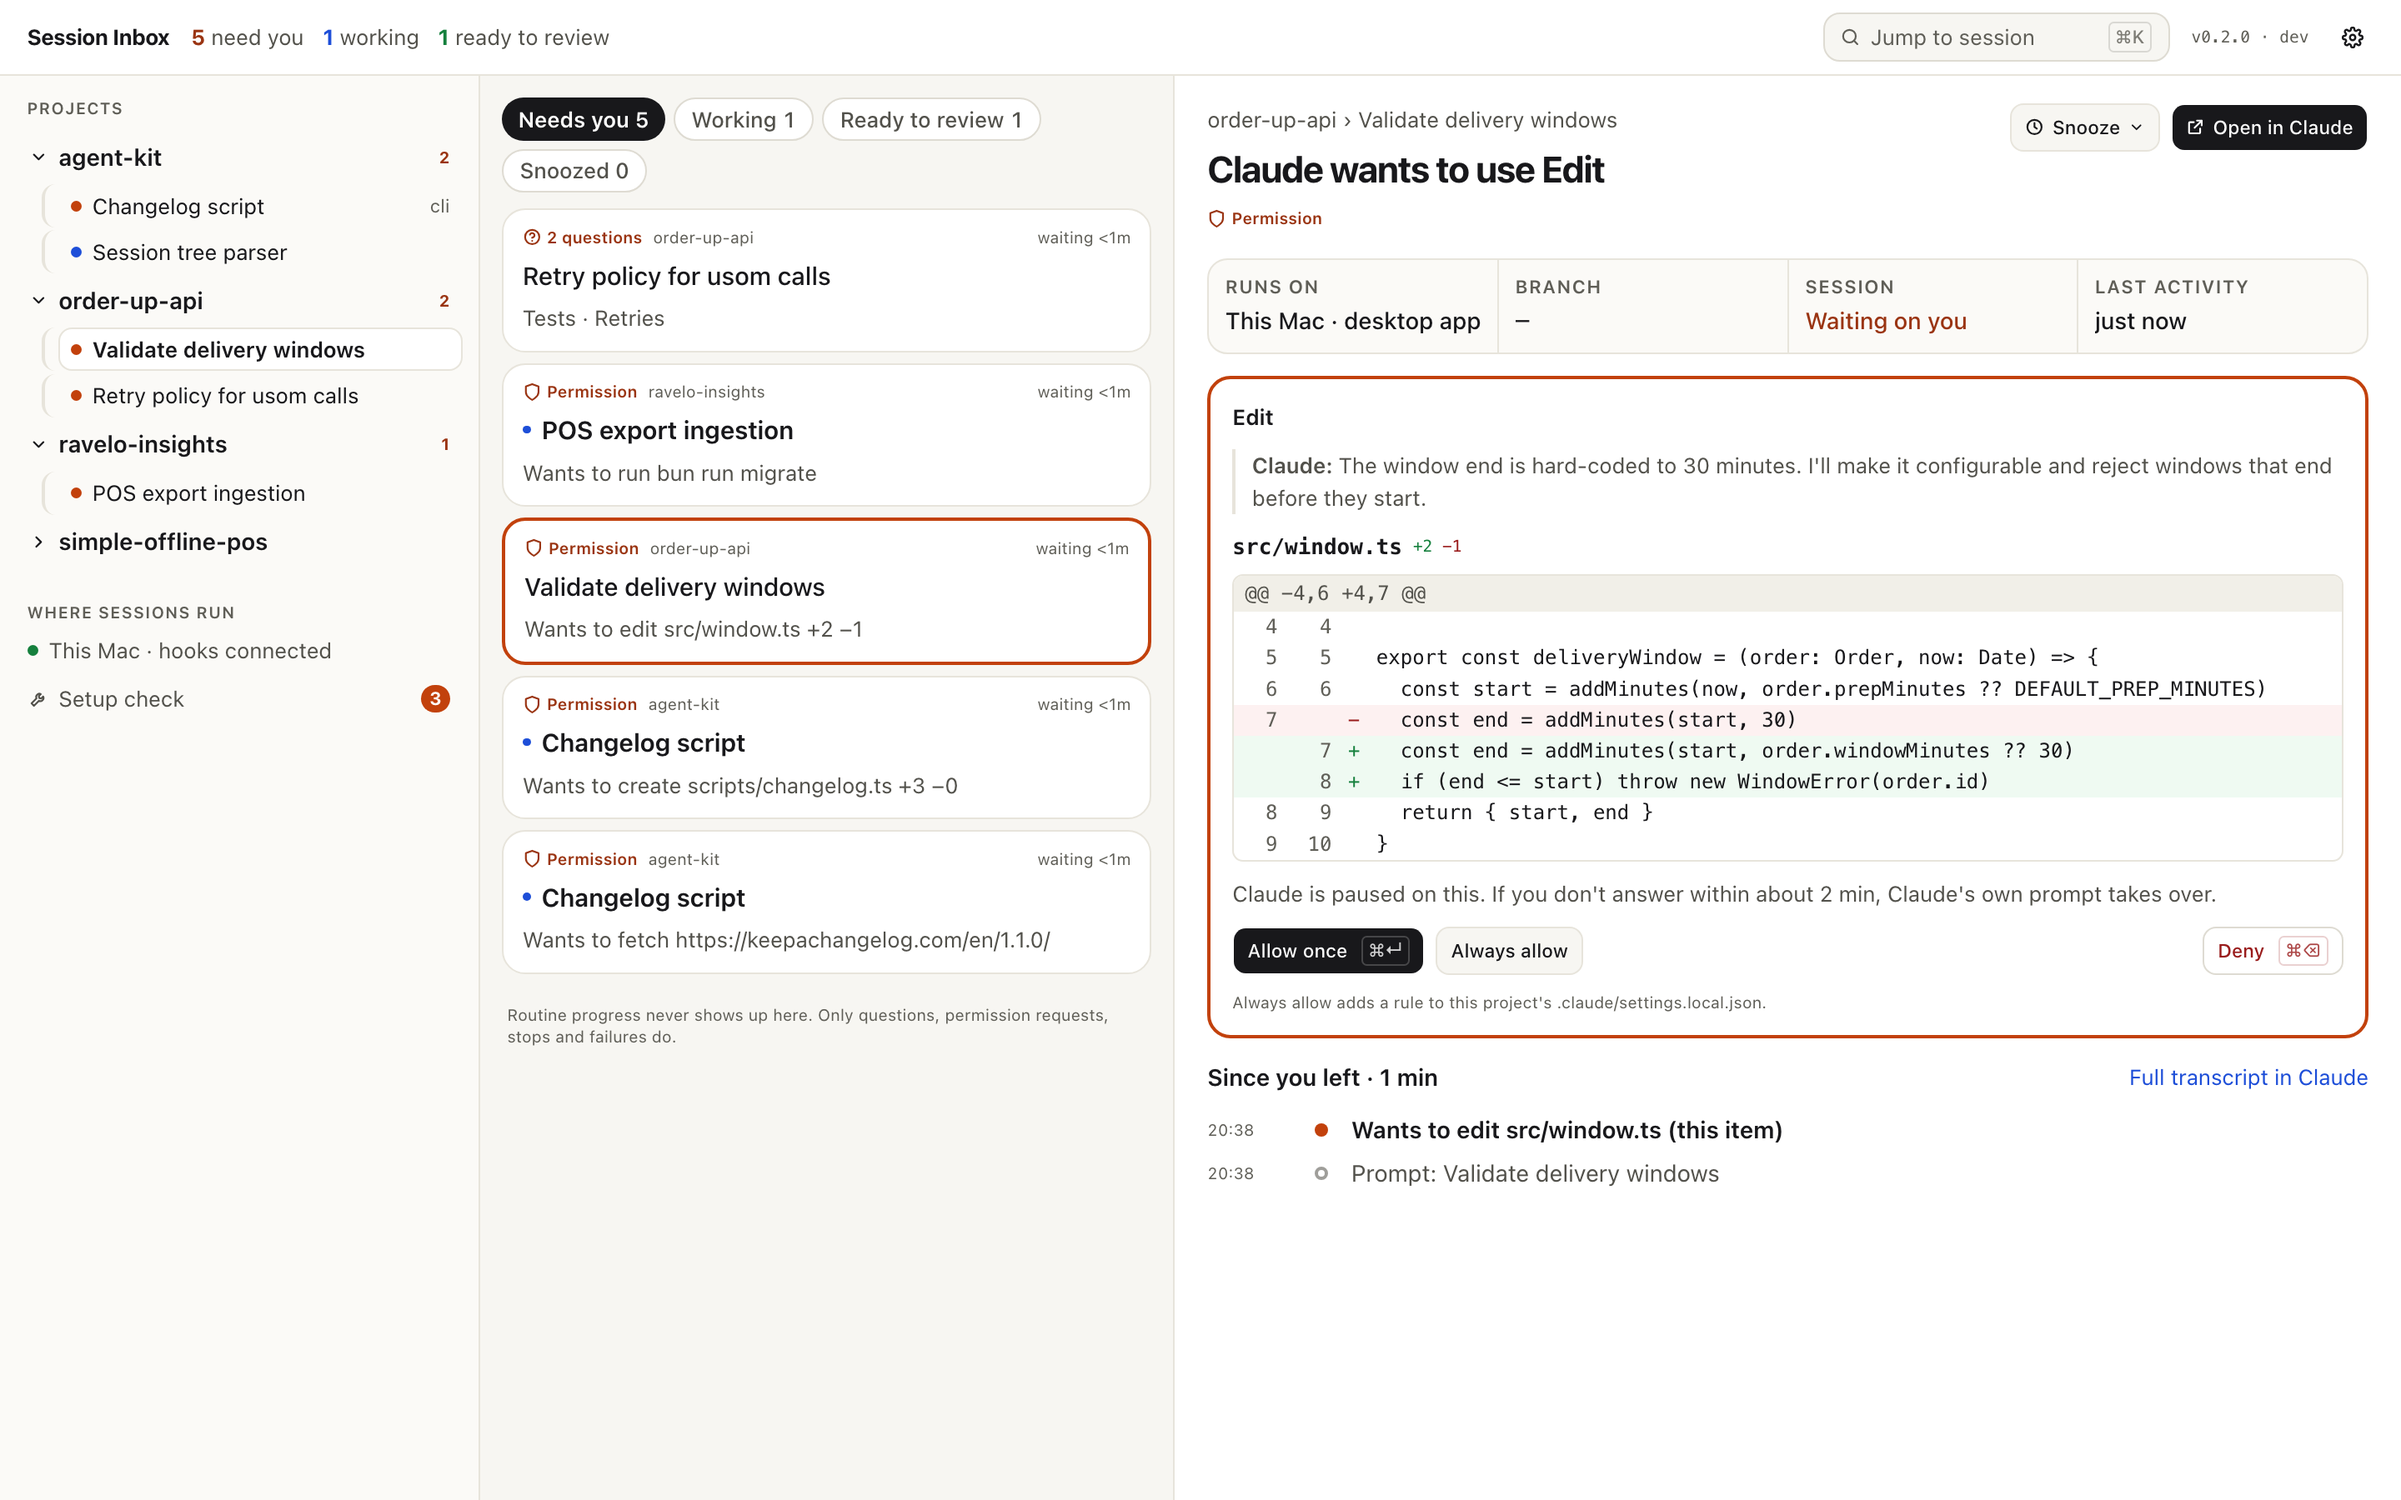
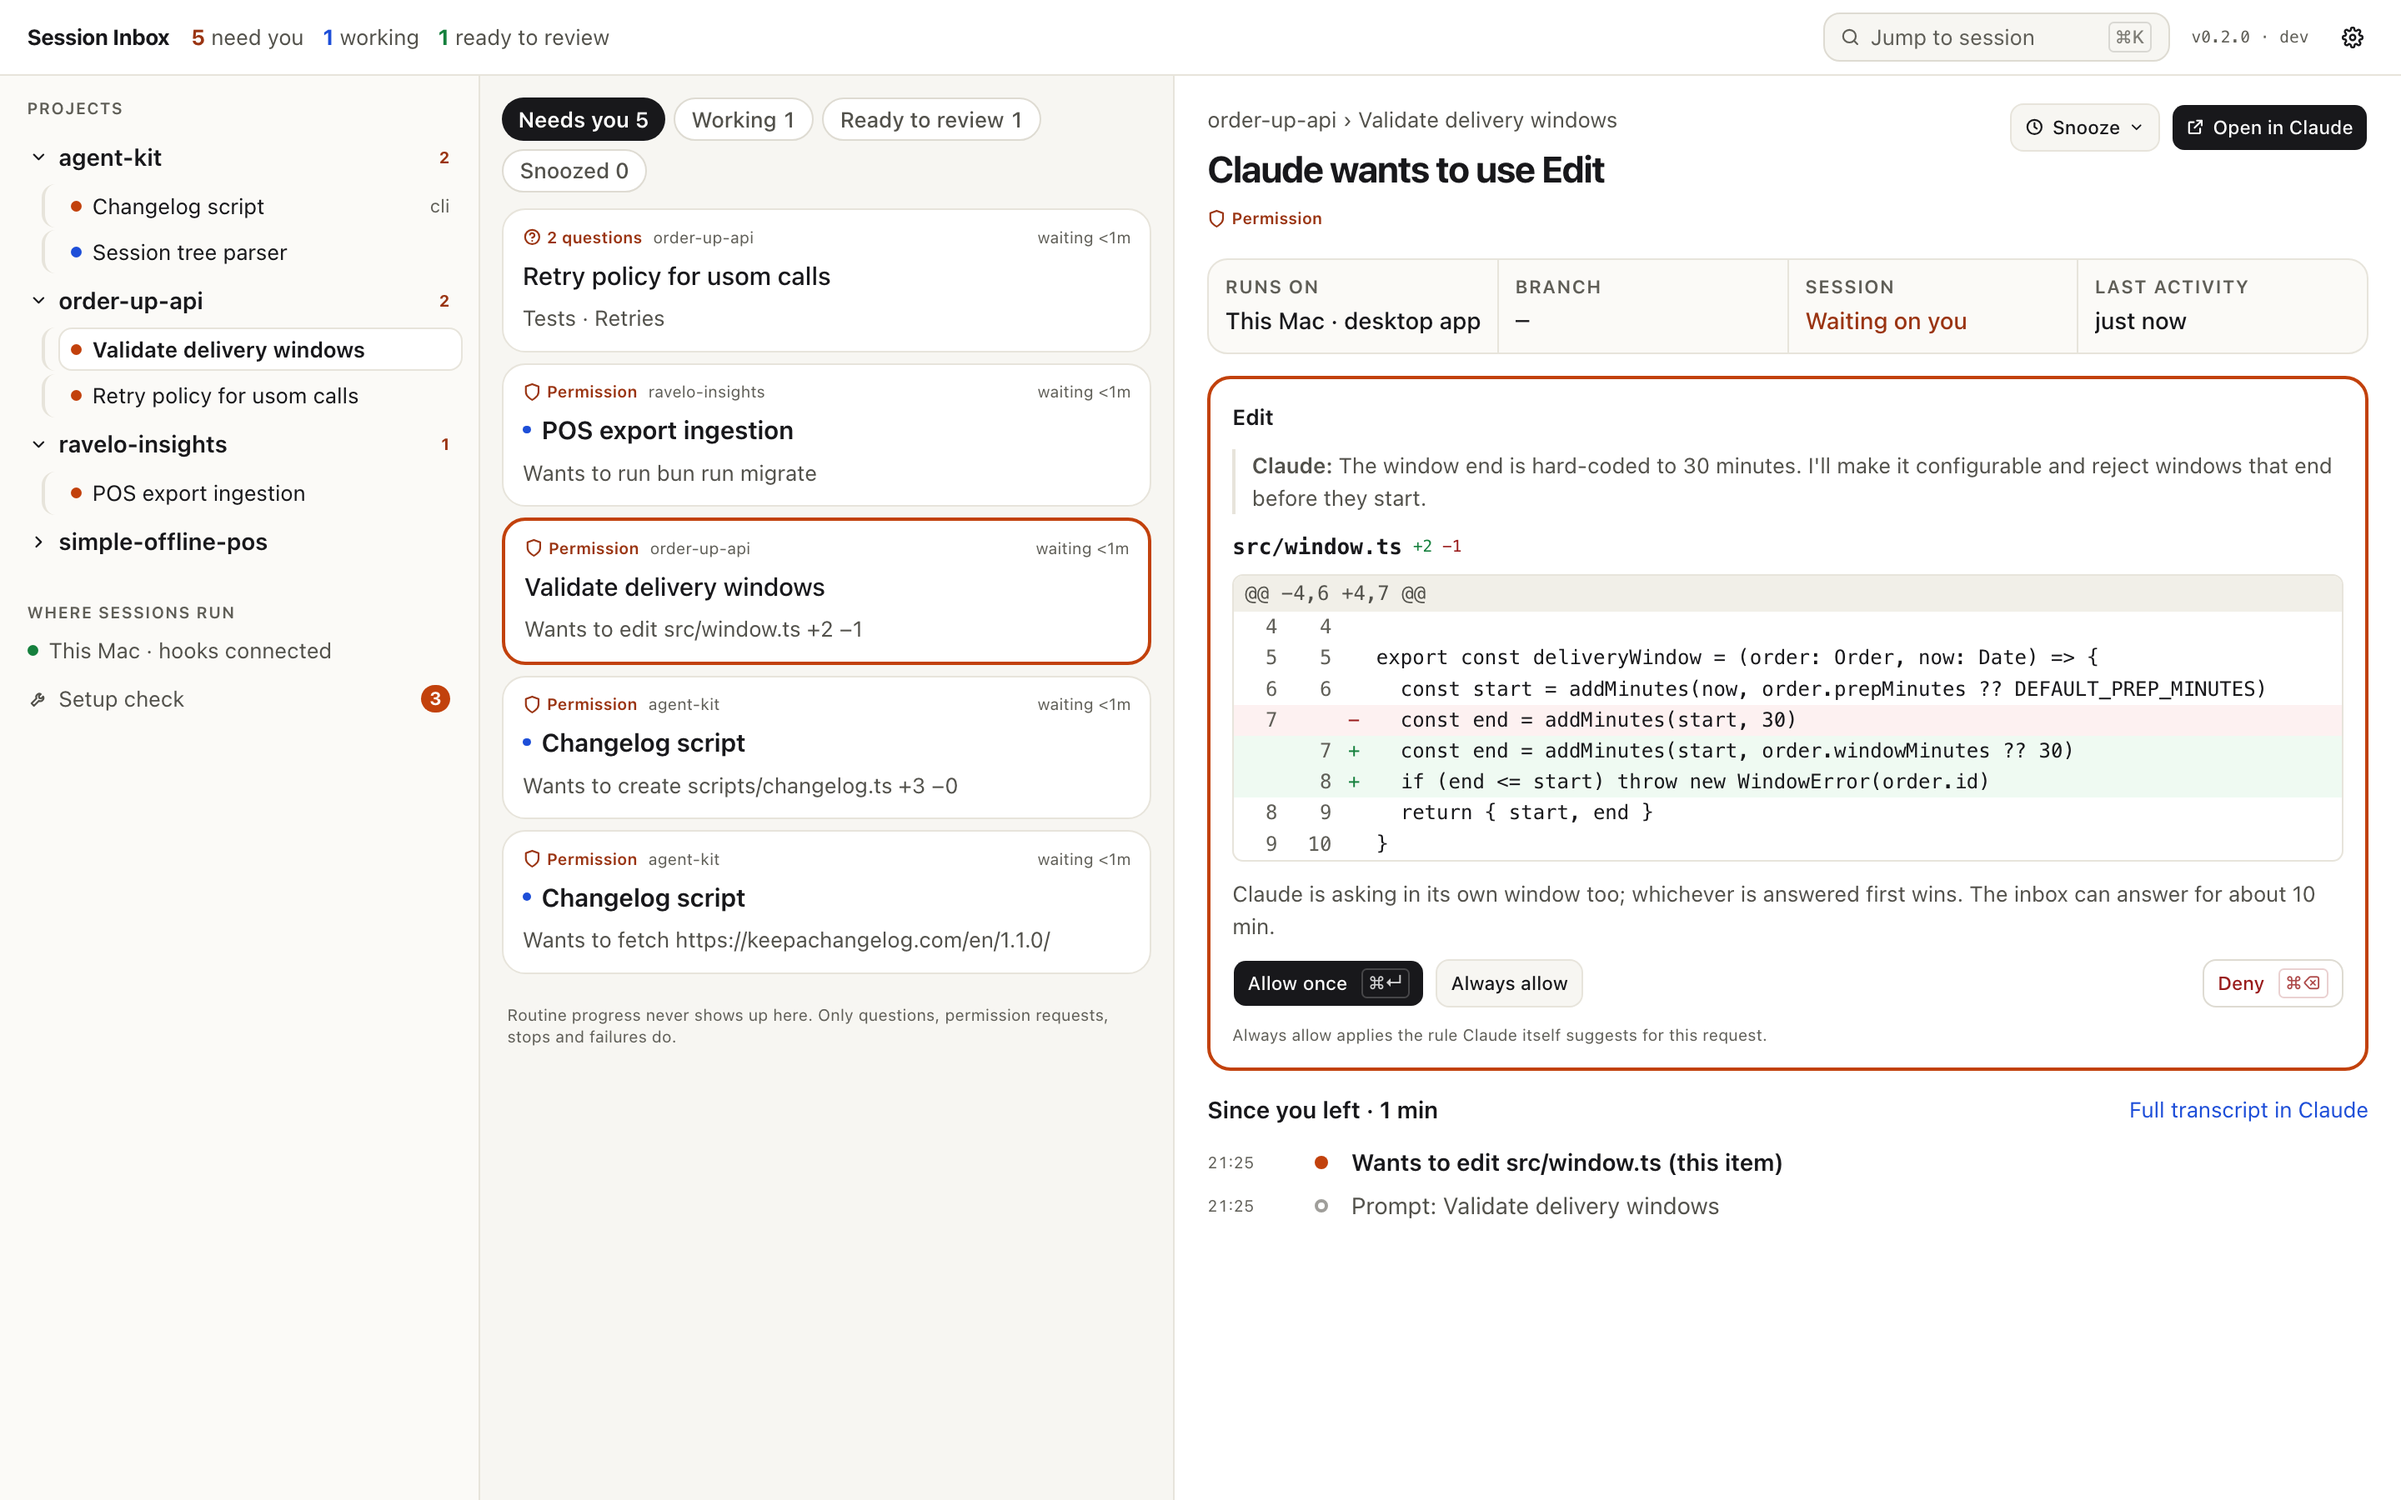
Word the approval card by how the request arrived; demo seeds PermissionRequest
The classic 'Claude is paused on this' wording was shown for the new
default and was no longer true. The demo now mirrors what Claude sends in
the default mode, so the docs screenshots show answerable approvals.
CLAUDE.md rule 3 follows D-074.

Changed region(s): [[0.5, 0.5911, 1.0, 0.8089]]

diff --git a/apps/desktop/src/view/detail.ts b/apps/desktop/src/view/detail.ts
@@ -520,6 +520,12 @@ const decisionFooter = (
   h: H,
 ): ReadonlyArray<Html> => {
   const secondsLeft = Math.max(0, Math.round((approval.expiresAt - model.now) / 1000))
+  const within = secondsLeft > 0 ? `about ${Math.max(1, Math.round(secondsLeft / 60))} min` : null
+  // The daemon says how this request reached us; the words follow it (U-045).
+  const viaRequest = approval.via === "permissionRequest"
+  const liveLine = viaRequest
+    ? `Claude is asking in its own window too; whichever is answered first wins.${within === null ? "" : ` The inbox can answer for ${within}.`}`
+    : `Claude is paused on this. If you don't answer${within === null ? " soon" : ` within ${within}`}, Claude's own prompt takes over.`
   return [
     h.p(
       [h.Class("text-[13px] text-muted-foreground")],
@@ -527,7 +533,7 @@ const decisionFooter = (
         isDecided
           ? `Decided: ${approval.decision ?? "answered"}${approval.decidedAt === null ? "" : ` at ${formatClock(approval.decidedAt)}`}.`
           : detail.item.live
-            ? `Claude is paused on this. If you don't answer${secondsLeft > 0 ? ` within about ${Math.max(1, Math.round(secondsLeft / 60))} min` : " soon"}, Claude's own prompt takes over.`
+            ? liveLine
             : "Claude's own prompt has taken over — deciding here may not reach it. Open it in Claude.",
       ],
     ),
@@ -573,7 +579,11 @@ const decisionFooter = (
     ),
     h.p(
       [h.Class("text-xs text-subtle-foreground")],
-      ["Always allow adds a rule to this project's .claude/settings.local.json."],
+      [
+        viaRequest
+          ? "Always allow applies the rule Claude itself suggests for this request."
+          : "Always allow adds a rule to this project's .claude/settings.local.json.",
+      ],
     ),
   ]
 }

diff --git a/scripts/demo.ts b/scripts/demo.ts
@@ -62,7 +62,7 @@ const proj = (name: string) => {
   return projects[name]
 }
 
-const hook = async (
+const post = async (
   sid: string,
   project: string,
   event: string,
@@ -87,6 +87,18 @@ const hook = async (
     }),
   })
   return (await r.json()) as { requestId: string | null }
+}
+
+/**
+ * One hook event. A PreToolUse is followed by the PermissionRequest Claude sends when it is
+ * about to ask (same tool and input, no tool_use_id): in the default mode that is what the
+ * inbox answers (D-074), and without it the seeded approvals would only be observed.
+ */
+const hook: typeof post = async (sid, project, event, payload = {}, entrypoint) => {
+  const first = await post(sid, project, event, payload, entrypoint)
+  if (event !== "PreToolUse") return first
+  const { tool_use_id: _id, ...request } = payload
+  return post(sid, project, "PermissionRequest", request, entrypoint)
 }
 
 const session = async (sid: string, project: string, prompt: string, entrypoint?: string) => {
@@ -116,7 +128,7 @@ await hook(s1, "order-up-api", "PreToolUse", {
         question: "Which integration tests should I run before opening the PR?",
         header: "Tests",
         options: [
-          { label: "Only *Usom* tests" },
+          { label: "Only Usom tests" },
           { label: "Full integration suite" },
           { label: "Skip — I'll run them" },
         ],
@@ -249,5 +261,5 @@ await hook(
 
 console.log(`\nSession Inbox demo running: http://127.0.0.1:${c.httpPort}/`)
 console.log(`  compact: http://127.0.0.1:${c.httpPort}/?view=compact`)
-console.log("  held hooks lapse to 'ask' after 120 s. Ctrl-C to stop.\n")
+console.log("  approvals stay answerable for 10 minutes, then wait in Claude. Ctrl-C to stop.\n")
 await daemon.exited

diff --git a/apps/desktop/src/settings.ts b/apps/desktop/src/settings.ts
@@ -161,7 +161,7 @@ export const SETTINGS_FIELDS: ReadonlyArray<SettingsField> = [
     group: "updates",
     kind: "toggle",
     label: "Install updates automatically",
-    help: "Only while no tool call is held and nothing is being sent. Otherwise you get an Update now button.",
+    help: "Only while nothing is waiting on you, nothing is being sent and sessions have been quiet for 30 seconds. Until then you get an Update now button.",
   },
 ]
 

diff --git a/CLAUDE.md b/CLAUDE.md
@@ -14,7 +14,7 @@ macOS menu-bar inbox for local Claude Code sessions: hooks → Bun daemon → Ta
 
 1. **The daemon decides; nothing else does.** Classification, lifecycle, queue, priority, notification policy, dedupe and reply routing live in `apps/daemon`. The UI renders `item.queue` / `item.state` / counts and sends intents. The Rust shell posts notifications and forwards clicks. Neither derives domain state.
 2. **Fail open.** If the daemon is down or slow, `inbox-hook` exits 0 with no stdout and Claude behaves as if no hooks existed. Never exit 2 from the hook, and never let an ingest error become a hook failure.
-3. **Hold only when Claude would ask** (G-014): default permission mode, tool in `holds.tools`, no matching allow rule, project not muted. `AskUserQuestion` is always held. Any change here changes how every Claude session on the machine feels.
+3. **Answer only when Claude would ask** (G-014, D-074). By default the inbox answers Claude's own prompt through the `PermissionRequest` hook (`holds.via = permissionRequest`): nothing is paused, Claude decides when to ask, and the first answer wins. In the classic mode (`preToolUse`) it holds a PreToolUse only when Claude would have asked: default permission mode, tool in `holds.tools`, no matching allow rule, project not muted. `AskUserQuestion` is always routed through the inbox. Never freeze a session for long. Any change here changes how every Claude session on the machine feels.
 4. **Every state change appends an event** (`events.seq`), including user intents. Stream deltas carry the causing seq; the UI resumes with `since=<seq>`.
 5. **Contracts are the only shared code.** Change `packages/contracts` first (additively where possible), then the daemon and UI. The UI must import only the browser-safe index, never `@session-inbox/contracts/paths` (it uses `node:os`).
 6. **The UI is served by the daemon** at `http://127.0.0.1:<port>/` with the token injected into `<meta name="session-inbox-token">`. Keep that tag in `apps/desktop/index.html` and use relative `/v1/...` URLs. The UI uses no Tauri APIs; the shell just loads the URL (`#/item/<id>` selects, `?view=compact` is the popover).

diff --git a/DECISIONS.md b/DECISIONS.md
@@ -224,6 +224,8 @@ entries with your section's prefix (G, C, D, H, U, S, P) and the next free numbe
 - U-042 — Settings field kind `choice` (`options: [{value, label}]`), rendered as native radio buttons in a fieldset and saved by `ChoseSetting` only for a listed value that differs from the shown one. First use: `holds.via` under Approvals, disabled while holds are off. `holds.requestBudgetMs` has no row yet (API only).
 - U-043 — A permission item whose approval isn't live and isn't done (observed prompt, lapsed hold, observer channel) shows no Allow once / Always allow / Deny: one quiet line "Claude is asking in its own window. Answer there." and Open in Claude as the primary action, with the preview and context kept. ⌘↵/⌘⌫ do nothing there. Queue cards say "Waiting in Claude" for such items instead of "waiting <time>". Live items are unchanged.
 - U-044 — Settings fields can carry `showWhen` / `disabledWhen` predicates over the shown values, plus a `disabledNote`, and a `minutes` number kind. With `holds.via = permissionRequest`, "Tools that can be held", the seconds "Wait for an answer" and "Bash commands never held" are disabled with "Not used while the inbox answers Claude's own prompt.", and a minutes "Wait for an answer" bound to `holds.requestBudgetMs` is shown (hidden in the classic mode). The choice reads "Answer Claude's own prompt (recommended)" / "Hold the tool call before Claude asks (classic)"; nothing user-facing says experimental any more.
+- U-045 — The live approval card words itself from `approval.via`: for a PermissionRequest it says Claude is asking in its own window too and that the first answer wins, and that Always allow applies the rule Claude suggests; the classic hold keeps "Claude is paused on this". Found in the docs screenshots: the classic wording was shown for the new default and was no longer true.
+
 
 ## Shell
 
